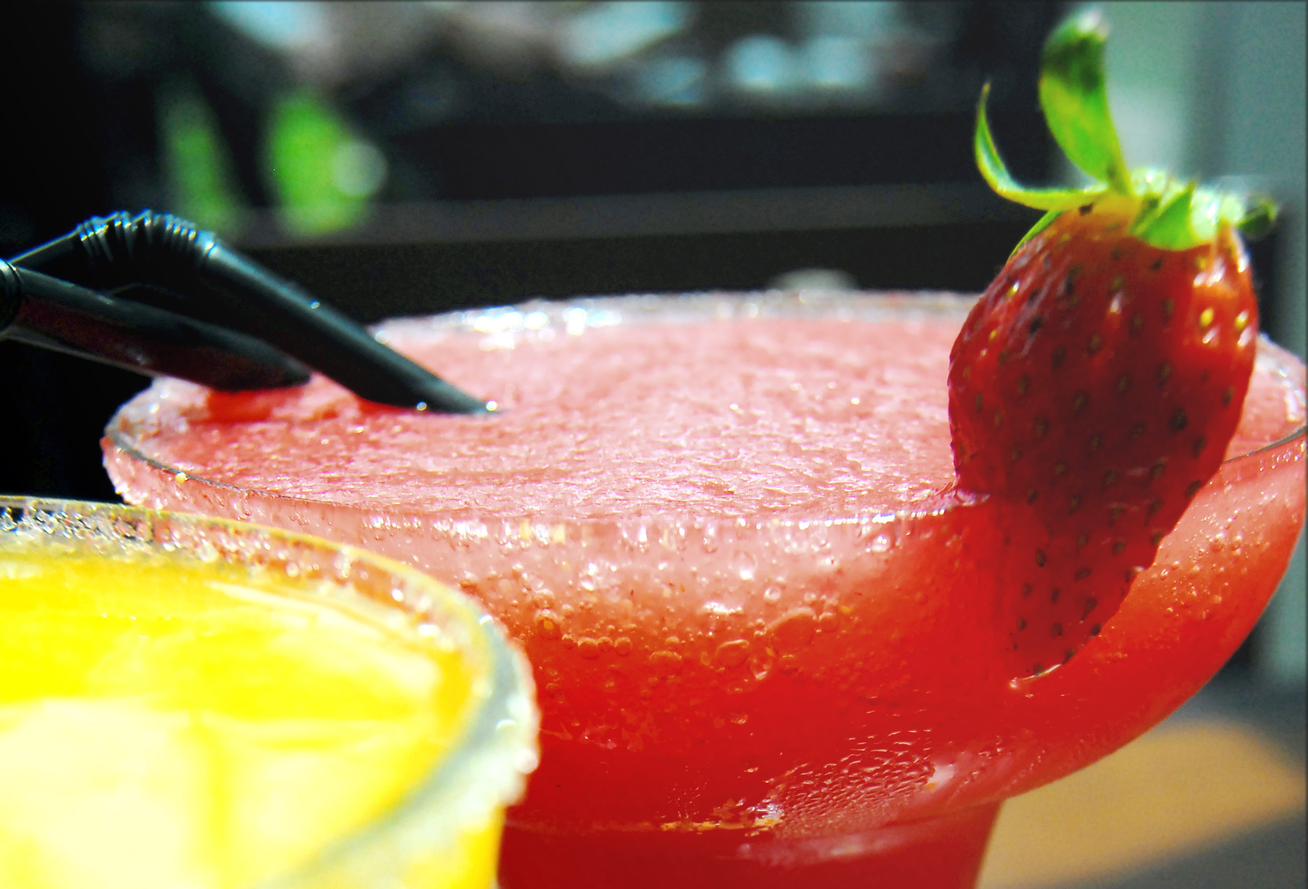
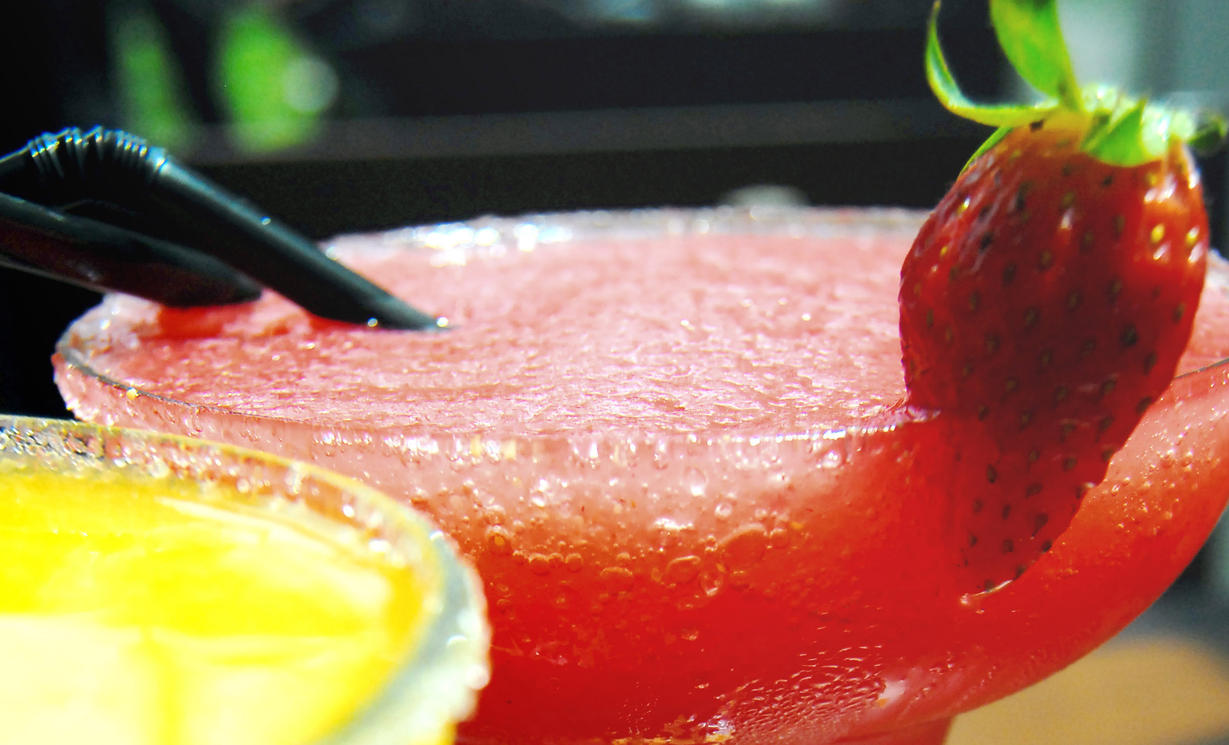
Added dl and ul
Added changes in images

diff --git a/css/main.css b/css/main.css
@@ -7,9 +7,10 @@ html{
      box-sizing: inherit;
    }
 
-h1,h2,h3,h4,h5,h6,p,nav{
+h1,h2,h3,h4,h5,h6,p,nav,dl{
   font-family: 'Oswald', bold;
 }
+
 
 h1{
 margin:0;
@@ -45,12 +46,21 @@ margin:0;
 
 
 
+dl{
+  font-size:1.0rem;
+  text-align:left;
+  color:#000;
+
+
+}
+
 nav li{
   text-align:left;
   padding: 0.5em;
   float:left;
   width:25%;
   background-color:#f6ea45;
+  font-size:1em;
 }
 
 
@@ -61,7 +71,7 @@ nav a{
   padding:0.5em;
   color:#000;
   text-decoration:none;
-  font-size:1.15 rem;
+  font-size:1rem;
 }
 
 nav ul{
@@ -76,14 +86,7 @@ nav ul{
   }
 
 
-  header .symbol{
-    font-size:7em;
-    padding:0;
-  }
-
-
-
-  h3 {
+   h3 {
     font-size: 0rem;
     color:#d13049;
     text-align: center;
@@ -100,6 +103,12 @@ nav ul{
       color:#fff;
     }
 
+.blacktext{
+  text-align:center;
+  font-size:1.0rem;
+  color:#000;
+
+}
  .panchovilla{
    width:7.5%;
    position:absolute;
@@ -266,15 +275,15 @@ div img{
    }
 
    h6{
-    margin:0;
     color:#000;
+    margin:0;
     background-color:#f9c640;
     text-align:center;
     width:185%;
-    font-size:1.5rem;
     position:relative;
-    top:2px;
+    top:5px;
     right:179px;
+    font-size:1.5rem;
     margin-right: 12px;
     display:block;
   }
@@ -284,10 +293,4 @@ div img{
   text-align: center;
   color:#fff;
   background-color:#d13049;
-}
-
-
-header {
-	/* Will add a background to the whole page */
-	background-image: url("../images/panchovilla.jpg");
 }

diff --git a/index.html b/index.html
@@ -43,9 +43,6 @@ Our priority is to deserve the best quality products and food to our customers .
 
 <div class="Tacos">
 
-
-    <h2>Our Menu</h2>
-
     <h4 class="Traditionalplates">Traditional plates</h4>
 
   <img src="images/tacos.jpg"  alt=".">
@@ -98,18 +95,23 @@ vegetable for only 50% off.</p>
 
 <div class="contactus">
 
-     <p>In the mood for a great meal? Contact us below:</p>
+     <p class="blacktext">In the mood for a great meal? Contact us below:</p>
 
      <img src="images/mapa.png"  alt=".">
 
      <p>
-        Located: 361 Elgin St.
-        Phone: 613-234-8872
-        Open:
-        Mon-Fri : 11:30 pm-10:00 pm
+    <ul>
+    <dl>
+        <b>Located:</b> 361 Elgin St.</dl>
+    <dl><b>Phone:</b> 613-234-8872</dl>
+    <dl><b>Open:</b></dl>
+    <dl>Mon-Fri:11:30 pm-10:00 pm</dl>
 
-        Saturday:11:30-11:00 pm
-        Sunday: 11:30pm-10:00 pm</p>
+    <dl>Saturday:11:30-11:00 pm</dl>
+    <dl>Sunday: 11:30pm-10:00 pm</dl>
+    </dl>
+    </ul>
+        </p>
 </div>
 
 
